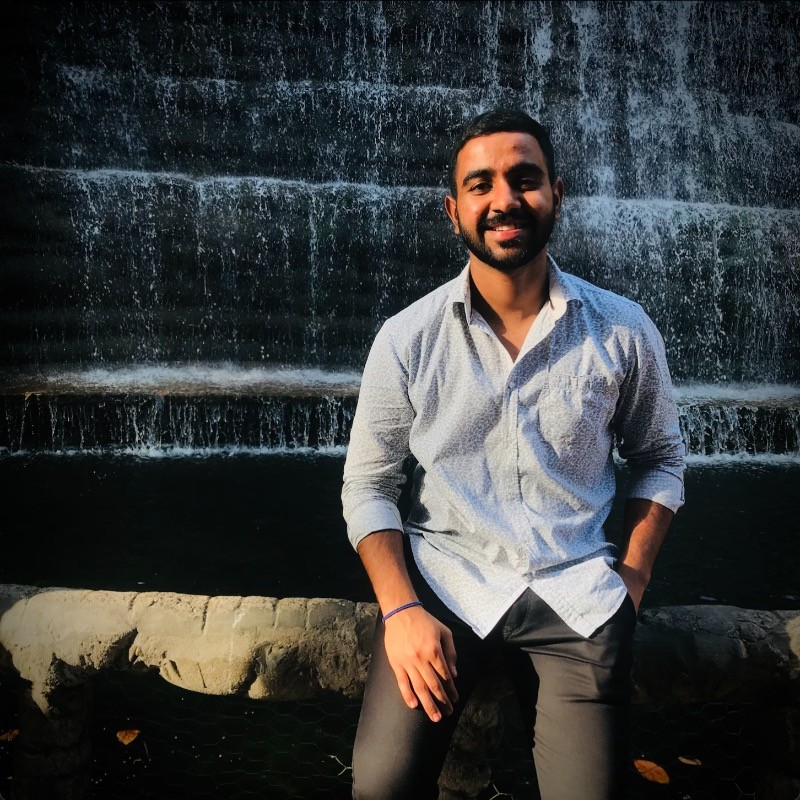
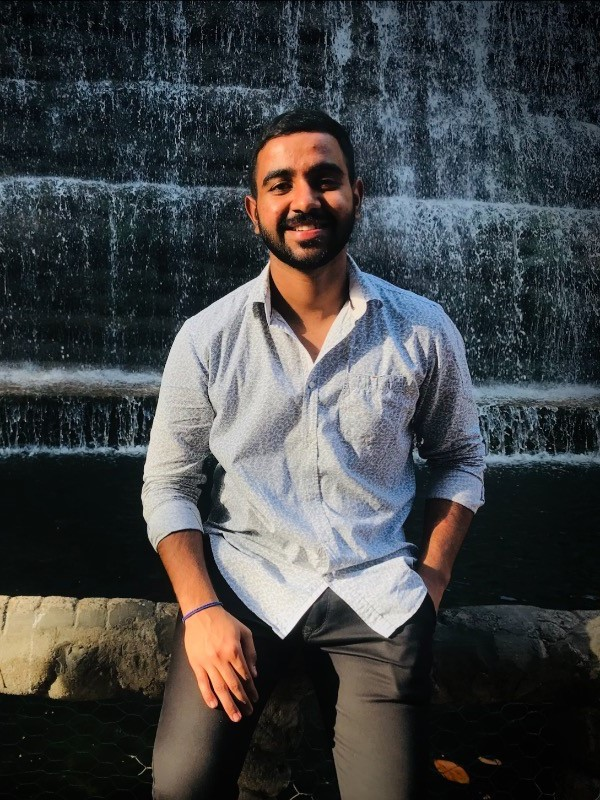
square se 3:4 kia , links add kie social media ke personals ke, aur section ka naam bdla

diff --git a/index.html b/index.html
@@ -458,6 +458,7 @@
     <!-- Donate End -->
 
 
+
     <!-- Team Start -->
     <div id="team-sec" class="container-xxl py-5">
         <div class="container">
@@ -475,9 +476,9 @@
                             <h5>Ishav Lega</h5>
                             <p class="text-primary">Project Manager</p>
                             <div class="team-social text-center">
-                                <a class="btn btn-square" href=""><i class="fab fa-facebook-f"></i></a>
-                                <a class="btn btn-square" href=""><i class="fab fa-twitter"></i></a>
-                                <a class="btn btn-square" href=""><i class="fab fa-instagram"></i></a>
+                                <a class="btn btn-square" href="https://www.linkedin.com/in/ishav-lega/" target="_blank"><i class="fab fa-linkedin-in"></i></a>
+                                <a class="btn btn-square" href="https://twitter.com/IshavLega" target="_blank"><i class="fab fa-twitter"></i></a>
+                                <a class="btn btn-square" href="https://www.instagram.com/ishavlega_09/" target="_blank"><i class="fab fa-instagram"></i></a>
                             </div>
                         </div>
                     </div>
@@ -491,9 +492,9 @@
                             <h5>Anurag Kumar</h5>
                             <p class="text-primary">Back-End Developer</p>
                             <div class="team-social text-center">
-                                <a class="btn btn-square" href=""><i class="fab fa-facebook-f"></i></a>
+                                <a class="btn btn-square" href="https://www.linkedin.com/in/anurag-kumar-103159284/" target="_blank"><i class="fab fa-linkedin-in"></i></a>
                                 <a class="btn btn-square" href=""><i class="fab fa-twitter"></i></a>
-                                <a class="btn btn-square" href=""><i class="fab fa-instagram"></i></a>
+                                <a class="btn btn-square" href="https://www.instagram.com/anurag.__.roxx/" target="_blank"><i class="fab fa-instagram"></i></a>
                             </div>
                         </div>
                     </div>
@@ -507,14 +508,14 @@
                             <h5>Dhananjay Pundir</h5>
                             <p class="text-primary">Front-End Developer</p>
                             <div class="team-social text-center">
-                                <a class="btn btn-square" href=""><i class="fab fa-facebook-f"></i></a>
-                                <a class="btn btn-square" href=""><i class="fab fa-twitter"></i></a>
-                                <a class="btn btn-square" href=""><i class="fab fa-instagram"></i></a>
+                                <a class="btn btn-square" href="https://www.linkedin.com/in/dhananjay-pundir09/" target="_blank"><i class="fab fa-linkedin-in"></i></a>
+                                <a class="btn btn-square" href="https://twitter.com/Dhananj32023951" target="_blank"><i class="fab fa-twitter"></i></a>
+                                <a class="btn btn-square" href="https://www.instagram.com/rajputdhananjayrana09/" target="_blank"><i class="fab fa-instagram"></i></a>
                             </div>
                         </div>
                     </div>
                 </div>
-                <div class="team-tile col-lg-3 col-md-6 wow fadeInUp" data-wow-delay="0.7s">
+                <div class="team-tile col-lg-3 col-md-6 wow fadeInUp" data-wow-delay="0.3s">
                     <div class="team-item position-relative rounded overflow-hidden">
                         <div class="overflow-hidden">
                             <img class="img-fluid" src="img/uwais.jpg" alt="">
@@ -523,14 +524,14 @@
                             <h5>Mohd Uwais Jawed</h5>
                             <p class="text-primary">Content Writer</p>
                             <div class="team-social text-center">
-                                <a class="btn btn-square" href=""><i class="fab fa-facebook-f"></i></a>
-                                <a class="btn btn-square" href=""><i class="fab fa-twitter"></i></a>
-                                <a class="btn btn-square" href=""><i class="fab fa-instagram"></i></a>
+                                <a class="btn btn-square" href="https://www.linkedin.com/in/uwais-jawed-175208231/" target="_blank"><i class="fab fa-linkedin-in"></i></a>
+                                <a class="btn btn-square" href="https://twitter.com/uwais__jawed" target="_blank"><i class="fab fa-twitter"></i></a>
+                                <a class="btn btn-square" href="https://www.instagram.com/uwais.__.jawed/" target="_blank"><i class="fab fa-instagram"></i></a>
                             </div>
                         </div>
                     </div>
                 </div>
-                <div class="team-tile col-lg-3 col-md-6 wow fadeInUp" data-wow-delay="0.7s">
+                <div class="team-tile col-lg-3 col-md-6 wow fadeInUp" data-wow-delay="0.1s">
                     <div class="team-item position-relative rounded overflow-hidden">
                         <div class="overflow-hidden">
                             <img class="img-fluid" src="img/sparsh.jpeg" alt="">
@@ -539,9 +540,9 @@
                             <h5>Sparsh Gupta</h5>
                             <p class="text-primary">Graphic Designer</p>
                             <div class="team-social text-center">
-                                <a class="btn btn-square" href=""><i class="fab fa-facebook-f"></i></a>
-                                <a class="btn btn-square" href=""><i class="fab fa-twitter"></i></a>
-                                <a class="btn btn-square" href=""><i class="fab fa-instagram"></i></a>
+                                <a class="btn btn-square" href="https://www.linkedin.com/in/sparshgupta121/" target="_blank"><i class="fab fa-linkedin-in"></i></a>
+                                <a class="btn btn-square" href="https://twitter.com/SparshGupta121" target="_blank"><i class="fab fa-twitter"></i></a>
+                                <a class="btn btn-square" href="https://www.instagram.com/sparsh121/" target="_blank"><i class="fab fa-instagram"></i></a>
                             </div>
                         </div>
                     </div>
